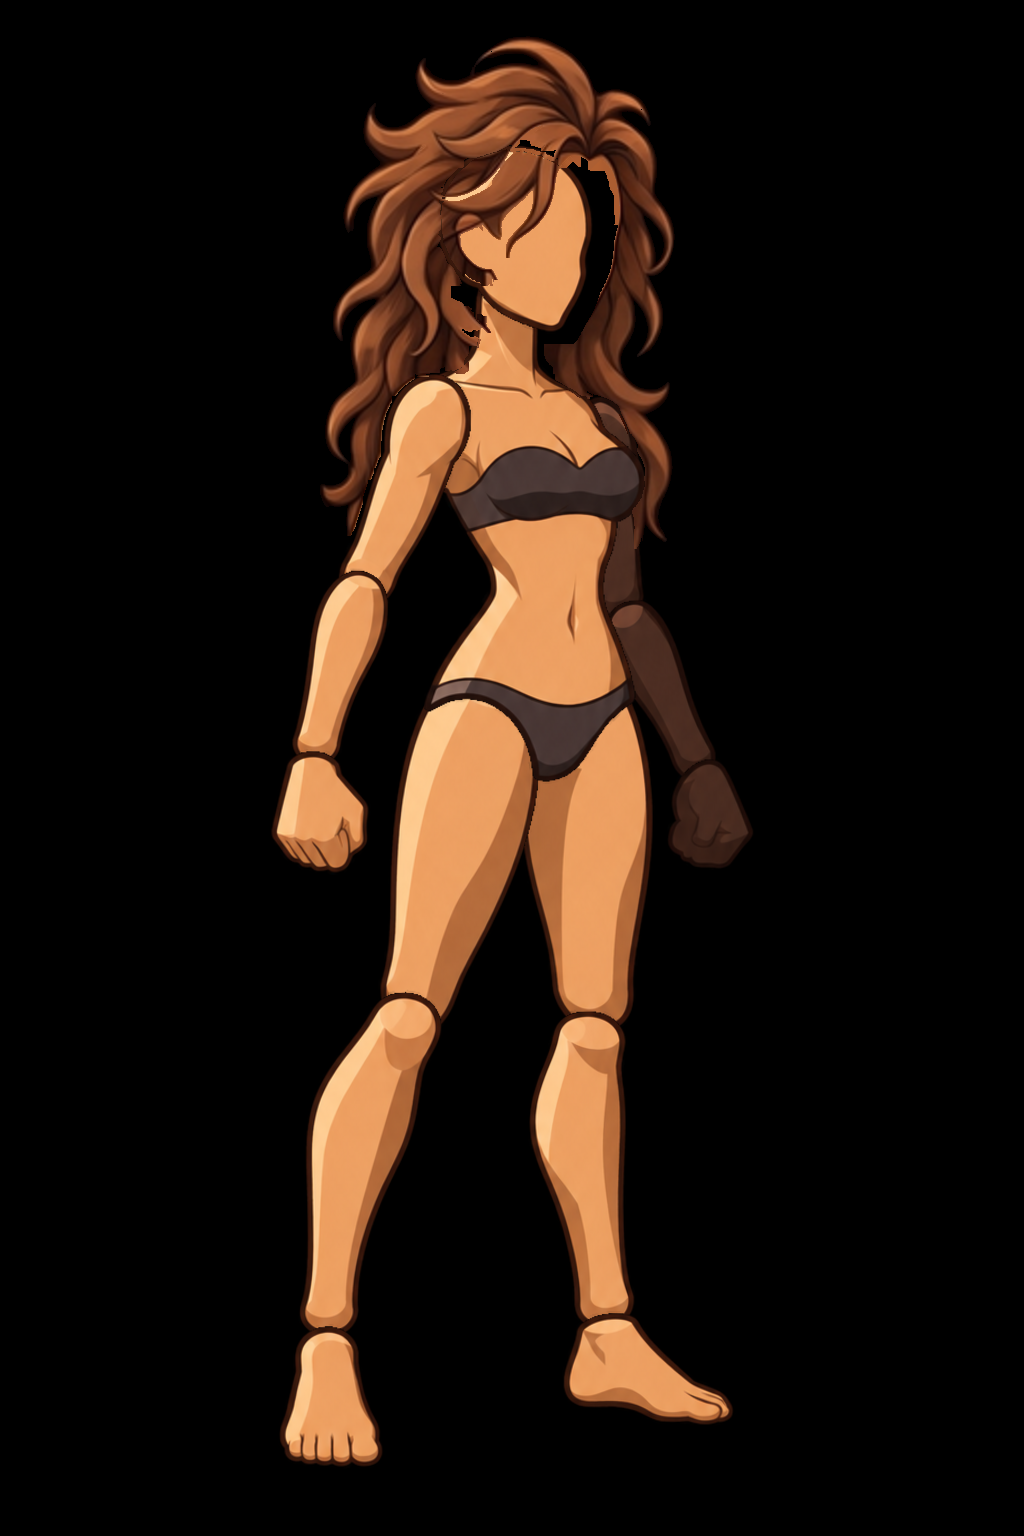
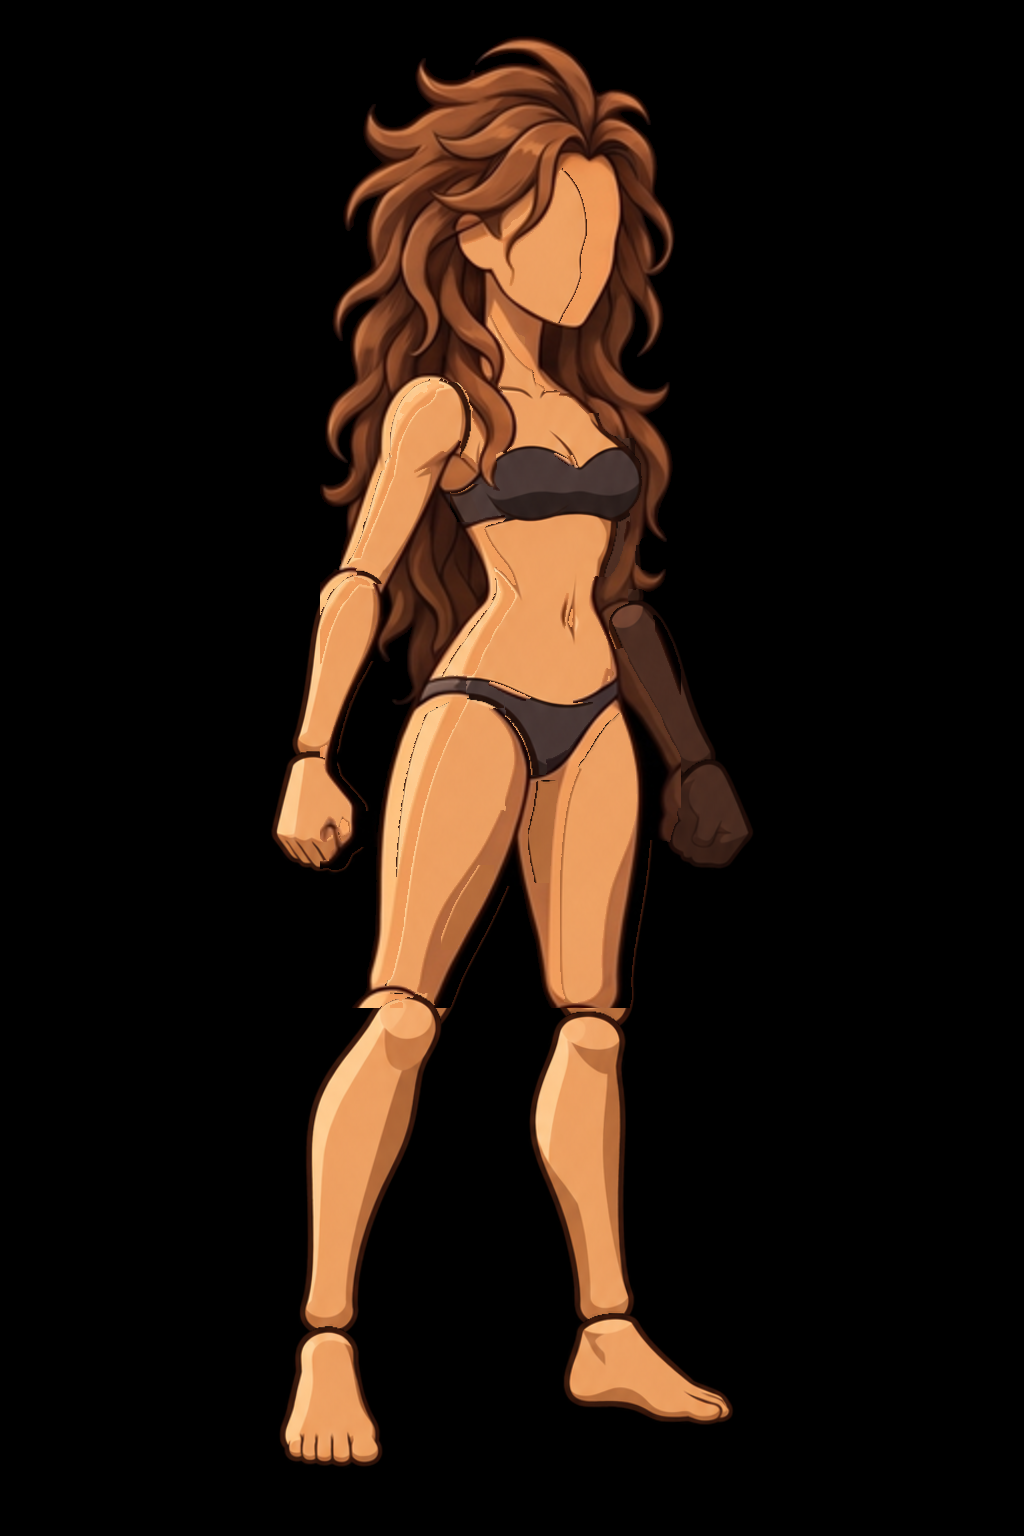
Flecks of the head painted out of the hair; a repainted hair is cut as what's new
tools/import_parts.py (hair_flecks): a scrap of the head's own skin or outline left
inside a hair, or a black speck where the sheet's cut keyed it, takes the hair's
colour: the shaggy style had a black dot that showed in any dye.

tools/part_sheet.py: a hair cell painted again on the template's own head
(generated.json) is cut the way an extra is, as whatever is new on the head, so a
pale highlight over the brow isn't taken for skin and cut away. The woman's wild
mane and drawn-back hair cut again that way. The atlases follow.

Claude-Session: https://claude.ai/code/session_01N47UGysUwqWC57BXeaRVAW

Changed region(s): [[0.3125, 0.0938, 0.6875, 0.6562]]

diff --git a/tools/import_parts.py b/tools/import_parts.py
@@ -181,6 +181,9 @@ HAIR_CLOSE, HAIR_HOLE, HAIR_NEAR, HAIR_RING = 3, 3000, 30, 0.85
 #: A gap between a hair and who it's on (hair_slivers): HAIR_SLIVER pixels or fewer enclosed by the
 #: two, or HAIR_CRACKED or fewer in a pocket between hair and head with a mouth narrower than twice HAIR_CRACK.
 HAIR_SLIVER, HAIR_CRACK, HAIR_CRACKED = 2500, 12, 2500
+#: A fleck of the head left in a hair (hair_flecks): this many pixels or fewer, this deep inside the
+#: hair, and within this of the blank head's own colour there in every channel.
+HAIR_FLECK, HAIR_FLECK_IN, HAIR_FLECK_SAME = 260, 3, 18
 #: How dark what fills such a gap is, against the hair's edge beside it.
 HAIR_UNDER = 0.88
 #: Specks of near black (brightest channel HAIR_SPECK_DARK or less, HAIR_SPECK pixels or fewer)
@@ -936,6 +939,7 @@ def head_piece(base, rgb, hair):
         kept |= np.isin(holes, small[(small > 0) & ~np.isin(small, edge)])
     if hair is True:
         colour, alpha, kept = hair_mend(base, rgb, colour, alpha, kept)
+        colour, alpha, kept = hair_flecks(base, rgb, colour, alpha, kept)
         colour, alpha, kept = hair_slivers(base, colour, alpha, kept)
     alpha = keep_near_main(alpha * kept)
     return piece_masks(rgb, colour, alpha, hair)
@@ -1027,6 +1031,36 @@ def hair_mend(base, rgb, colour, alpha, kept):
     alpha = alpha.copy()
     alpha[fill] = 1.0
     return colour, alpha, kept | fill
+
+
+def hair_flecks(base, rgb, colour, alpha, kept):
+    """A hair's flecks of the head painted out: where the hair covers the head, a scrap of the head's
+    own skin or outline can come through the cut with it (it's inside the hair, so nothing takes it
+    away), and a black speck where the sheet's cut keyed a bit of that outline. Deep inside the hair
+    (HAIR_FLECK_IN pixels from its edge), a piece of HAIR_FLECK pixels or fewer that's the blank
+    head's own colour there (within HAIR_FLECK_SAME), or near black, takes the mean of the hair's
+    colours round it. Returns (colour, alpha, kept)."""
+    there = kept & (alpha > 0.5)
+    inside = erode(there, HAIR_FLECK_IN)
+    head = base.above & (base.alpha > 0.5)
+    same = (np.abs(rgb.astype(np.float64) - base.rgb).max(axis=2) <= HAIR_FLECK_SAME) & head
+    black = rgb.max(axis=2) <= HAIR_SPECK_DARK
+    suspect = there & (same | black)
+    labels, count = ic.components(suspect)
+    if not count:
+        return colour, alpha, kept
+    sizes = np.bincount(labels.ravel(), minlength=count + 1)
+    deep = np.bincount(labels.ravel(), weights=inside.ravel().astype(np.float64), minlength=count + 1)
+    fleck = (sizes <= HAIR_FLECK) & (deep == sizes)
+    fleck[0] = False
+    fill = fleck[labels]
+    if not fill.any():
+        return colour, alpha, kept
+    near = ic.local_mean(colour, (there & ~ic.grow(suspect, 1)).astype(np.float64), (2, 4, 8, 16))
+    fill &= ~np.isnan(near[:, :, 0])
+    colour = colour.copy()
+    colour[fill] = near[fill]
+    return colour, alpha, kept
 
 
 def hair_slivers(base, colour, alpha, kept):

diff --git a/tools/part_sheet.py b/tools/part_sheet.py
@@ -269,6 +269,13 @@ CREDIT = "supplied by Caleb Kiatoukaysi, made in ChatGPT"
 CREDIT_GENERATED = "made with Google's Gemini image model by Claude, at Caleb Kiatoukaysi's request (2026-11-19), from the art brief's prompt"
 
 
+def exact_heads():
+    """The parts painted again by a painter that keeps the template's head as it is (generated.json's "ids")."""
+    import json
+    path = os.path.join(CHARS, "generated.json")
+    return set(json.load(open(path, encoding="utf-8")).get("ids", [])) if os.path.exists(path) else set()
+
+
 def credit(sheet_id, part=None, parts=()):
     """Who made a sheet, or one part cut from it: ChatGPT, for Caleb, unless generated.json says
     otherwise (a whole sheet in its "sheets", or single cells painted again in its "ids")."""
@@ -872,6 +879,12 @@ def fit_cut(png, sheet_id, force=False, check=None, record=None, write=True):
         placed.append((k, cell_base, part, b, out, ref, covered, (x0, y0, x1, y1), score, s, tx, ty))
     for k, cell_base, part, b, out, ref, covered, (x0, y0, x1, y1), score, s, tx, ty in placed:
         if kind == "extra":
+            out, solid = extra_part(out, b, ref, covered, cell_base, part)
+            kept = solid > 0
+        elif kind == "hair" and part in exact_heads():
+            # A cell painted again on the template's own head, pixel for pixel: the hair is simply
+            # what's new on it, as an extra is. head_part sorts by colour, for a head drawn again,
+            # and takes a hair's pale highlight over the brow for skin.
             out, solid = extra_part(out, b, ref, covered, cell_base, part)
             kept = solid > 0
         elif kind == "hair":
